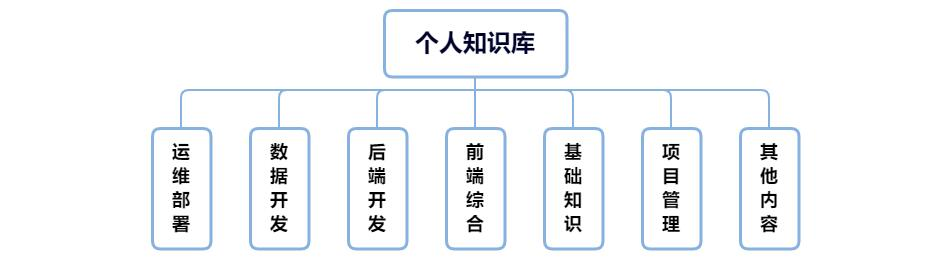
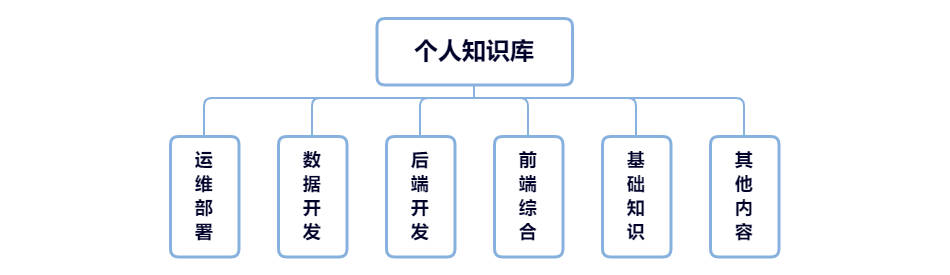
20221111

Changed region(s): [[0.1526, 0.0291, 0.8547, 0.96]]

diff --git a/statics/js/running-time.js b/statics/js/running-time.js
@@ -1,25 +1,23 @@
-function siteTime() {
-    window.setTimeout("siteTime()", 1000);
-    var seconds = 1000;
-    var minutes = seconds * 60;
-    var hours = minutes * 60;
-    var days = hours * 24;
-    var years = days * 365;
-    var today = new Date();
-    var todayYear = today.getFullYear();
-    var todayMonth = today.getMonth() + 1;
-    var todayDate = today.getDate();
-    var todayHour = today.getHours();
-    var todayMinute = today.getMinutes();
-    var todaySecond = today.getSeconds();
-    var t1 = Date.UTC(2020, 06, 12, 17, 00, 00);
-    var t2 = Date.UTC(todayYear, todayMonth, todayDate, todayHour, todayMinute, todaySecond);
-    var diff = t2 - t1;
-    var diffYears = Math.floor(diff / years);
-    var diffDays = Math.floor((diff / days) - diffYears * 365);
-    var diffHours = Math.floor((diff - (diffYears * 365 + diffDays) * days) / hours);
-    var diffMinutes = Math.floor((diff - (diffYears * 365 + diffDays) * days - diffHours * hours) / minutes);
-    var diffSeconds = Math.floor((diff - (diffYears * 365 + diffDays) * days - diffHours * hours - diffMinutes * minutes) / seconds);
+window.onload = setInterval(function() {
+    let seconds = 1000;
+    let minutes = seconds * 60;
+    let hours = minutes * 60;
+    let days = hours * 24;
+    let years = days * 365;
+    let today = new Date();
+    let todayYear = today.getFullYear();
+    let todayMonth = today.getMonth() + 1;
+    let todayDate = today.getDate();
+    let todayHour = today.getHours();
+    let todayMinute = today.getMinutes();
+    let todaySecond = today.getSeconds();
+    let t1 = Date.UTC(2020, 06, 12, 17, 00, 00);
+    let t2 = Date.UTC(todayYear, todayMonth, todayDate, todayHour, todayMinute, todaySecond);
+    let diff = t2 - t1;
+    let diffYears = Math.floor(diff / years);
+    let diffDays = Math.floor((diff / days) - diffYears * 365);
+    let diffHours = Math.floor((diff - (diffYears * 365 + diffDays) * days) / hours);
+    let diffMinutes = Math.floor((diff - (diffYears * 365 + diffDays) * days - diffHours * hours) / minutes);
+    let diffSeconds = Math.floor((diff - (diffYears * 365 + diffDays) * days - diffHours * hours - diffMinutes * minutes) / seconds);
     document.getElementById("sitetime").innerHTML = " 本站已安全运行 " + diffYears + " 年 " + diffDays + " 天 " + diffHours + " 小时 " + diffMinutes + " 分 " + diffSeconds + " 秒 ";
-}
-siteTime();
+},1000)

diff --git a/statics/js/myscript.js b/statics/js/myscript.js
@@ -4,7 +4,7 @@ window.$docsify = {
         '/blog/': '#/blog/',
         '/': '#/',
     },
-    repo: 'https://www.lijiong.cn/#/blog/',
+    repo: 'https://www.lijiong.cn/',
     loadNavbar: true,
     noEmoji: true,
     auto2top: true,

diff --git a/README.md b/README.md
@@ -1,6 +1,18 @@
 # **本站地图**
 
-![](assets/README/本站地图.jpg)
+<p>
+    <img src="/assets/README/本站地图.jpg" data-origin="assets/README/本站地图.jpg" id="pic1" usemap="#map1">
+    <map name="map1">
+        <area shape="rect" coords="173,139,238,236" class="class1" href="https://lijiong.cn/#/?id=运维部署" target="_self"></area>
+        <area shape="rect" coords="281,139,346,236" class="class1" href="https://lijiong.cn/#/?id=数据开发" target="_self"></area>
+        <area shape="rect" coords="389,139,454,236" class="class1" href="https://lijiong.cn/#/?id=后端开发" target="_self"></area>
+        <area shape="rect" coords="497,139,562,236" class="class1" href="https://lijiong.cn/#/?id=前端综合" target="_self"></area>
+        <area shape="rect" coords="605,139,670,236" class="class1" href="https://lijiong.cn/#/?id=基础知识" target="_self"></area>
+        <area shape="rect" coords="713,139,778,236" class="class1" href="https://lijiong.cn/#/?id=其他内容" target="_self"></area>
+    </map>
+</p>
+
+
 
 # **运维部署**
 
@@ -548,6 +560,8 @@
 [HTML的样式标签](src/前端综合/HTML的样式标签)
 
 [HTML的列表标签](src/前端综合/HTML的列表标签)
+
+[HTML的表单标签](src/前端综合/HTML的表单标签)
 
 <!-- div:right-panel -->
 

diff --git a/_navbar.md b/_navbar.md
@@ -4,7 +4,6 @@
   - [后端开发](/?id=后端开发)
   - [前端综合](/?id=前端综合)
   - [基础知识](/?id=基础知识)
-  - [项目管理](/?id=项目管理)
   - [其他内容](/?id=其他内容)
 - [**技术文档**]()
 
@@ -14,14 +13,16 @@
   - [Flume](https://flume.apache.org/releases/content/1.9.0/FlumeUserGuide.html)
   - [Hadoop](https://hadoop.apache.org/docs/)
   - [Java](https://docs.oracle.com/javase/8/docs/api/index.html)
+  - [JavaScript](https://developer.mozilla.org/zh-CN/docs/Web/JavaScript)
   - [Kafka](https://kafka.apache.org/documentation/)
-  - [K8S](https://kubernetes.io/zh/docs/home/)
+  - [Kubernetes](https://kubernetes.io/zh/docs/home/)
   - [Kudu](https://kudu.apache.org/docs/)
   - [Nginx](http://nginx.org/en/docs/)
   - [Python](https://docs.python.org/3/)
   - [Scala](https://docs.scala-lang.org/)
   - [Spark](https://spark.apache.org/documentation.html)
   - [Tomcat](https://tomcat.apache.org/tomcat-8.0-doc/index.html)
+  - [Vue](https://cn.vuejs.org/api/)
 - [**网页工具**]()
   
   - [文献搜索](https://www.semanticscholar.org/)
@@ -47,4 +48,5 @@
   - [Gitee](https://gitee.com/)
   - [CDNJS](https://cdnjs.com/)
   - [CnBlogs](https://www.cnblogs.com/)
+  - [MyBlog](https://www.lijiong.cn/#/blog/)
 

diff --git a/src/前端综合/HTML的表单标签.md b/src/前端综合/HTML的表单标签.md
@@ -1,0 +1,26 @@
+## **HTML的表单标签**
+
+### form
+
+- 表单
+
+- action：接收表单数据的地址
+
+### input
+
+- 输入控件
+- type
+  - text：单行文本框
+  - password：密码框
+  - submit：提交按钮
+  - button：定义按钮
+  - reset：重置按钮
+  - radio：单选按钮
+  - checkbox：复选按钮
+  - file：文件浏览上传
+  - select：下拉列表
+    - option：选项
+  - label：标注
+    - for：绑定的表单元素，对应元素的id
+- name：元素名称
+- value：元素内容
